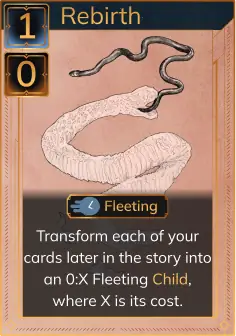
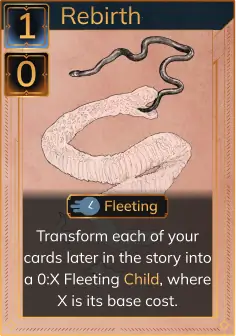
Fixed birth wording

Changed region(s): [[0.089, 0.8036, 0.8898, 0.9226]]

diff --git a/shared/state/catalog/birth.ts b/shared/state/catalog/birth.ts
@@ -116,7 +116,7 @@ const rebirth = new Rebirth({
   id: 55,
   cost: 1,
   qualities: [Quality.FLEETING],
-  text: 'Fleeting\nTransform each of your cards later in the story into an 0:X Fleeting Child, where X is its cost.',
+  text: 'Fleeting\nTransform each of your cards later in the story into a 0:X Fleeting Child, where X is its cost.',
   keywords: [{ name: Keywords.fleeting, x: 0, y: 39 }],
   references: [{ card: child, x: 53, y: 112 }],
 })
